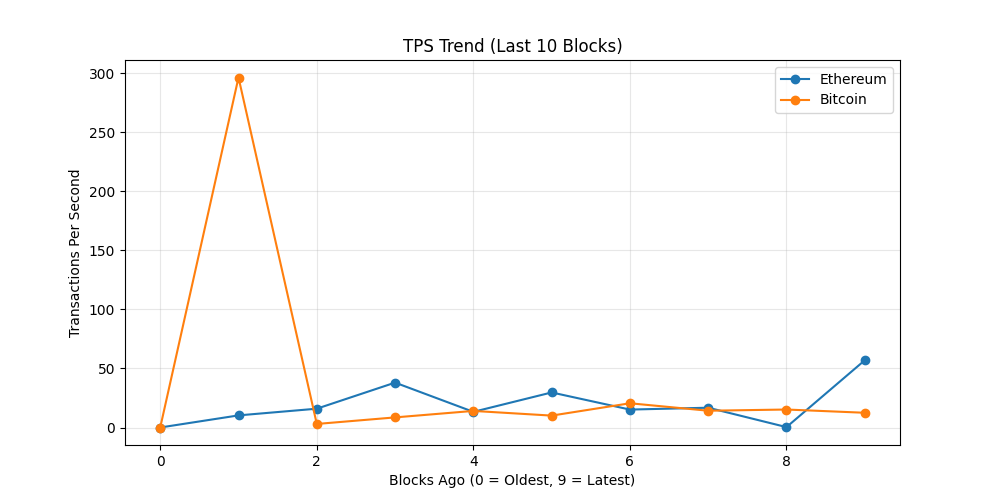
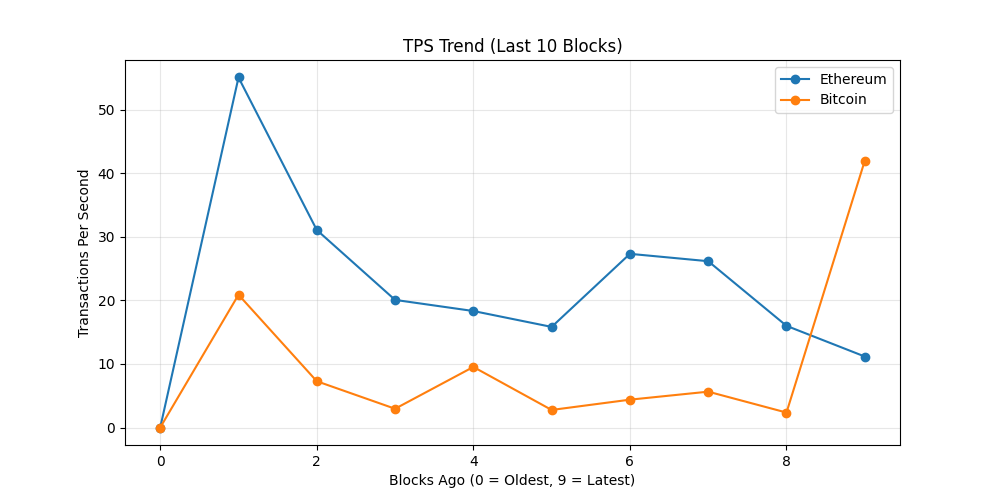
chore: update on-chain dashboard

diff --git a/README.md b/README.md
@@ -19,7 +19,7 @@ The README itself acts as the dashboard and is regenerated automatically on a 6 
 demonstrating a production-style, infrastructure-focused observability workflow rather
 than a traditional UI-driven approach.
 
-_Last updated: 2026-04-16 14:12 UTC_
+_Last updated: 2026-04-16 19:37 UTC_
 
 ## API Usage (GetBlock.io)
 - Calls used: **24**
@@ -27,8 +27,8 @@ _Last updated: 2026-04-16 14:12 UTC_
 ## Network Metrics
 | Chain | Block Height | TX Count | TPS (10 blk avg) | Block Util | Avg Fee |
 |------|-------------|----------|------------------|------------|---------|
-| Ethereum | 24892901 | 683 | 56.92 | 94.58% | 0.2 Gwei |
-| Bitcoin | 945336 | 5263 | 12.47 | 99.79% | N/A |
+| Ethereum | 24894528 | 134 | 11.17 | 23.59% | 0.2 Gwei |
+| Bitcoin | 945376 | 2015 | 41.98 | 86.01% | N/A |
 
 ## Visuals
 ### Transactions Trend
@@ -43,11 +43,11 @@ _Last updated: 2026-04-16 14:12 UTC_
 ## Whale Alerts (latest block)
 - Transaction hashes are truncated for readability.
 - Full hashes are available in `dashboards/metrics.json`
-- Bitcoin | 155.92 BTC | `0697ddf1de3e…`
-- Bitcoin | 1023.56 BTC | `4b1aa9339c3a…`
-- Bitcoin | 2344.21 BTC | `9e7d87c403bb…`
-- Bitcoin | 298.62 BTC | `3d2b8337844d…`
-- Bitcoin | 350.0 BTC | `6ffb001ec439…`
+- Bitcoin | 533.9 BTC | `700c35023085…`
+- Bitcoin | 129.3 BTC | `599f1e65102b…`
+- Bitcoin | 121.62 BTC | `8fa79d7b10e8…`
+- Bitcoin | 121.62 BTC | `1221ddaaab10…`
+- Bitcoin | 121.61 BTC | `ac7e257159ae…`
 
 ## Run locally
 
